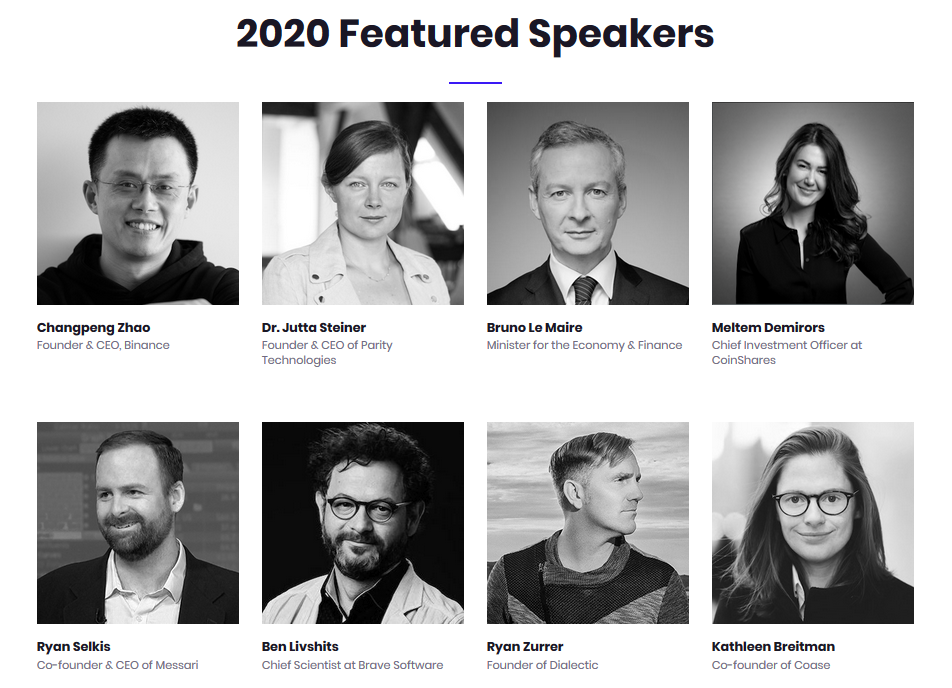
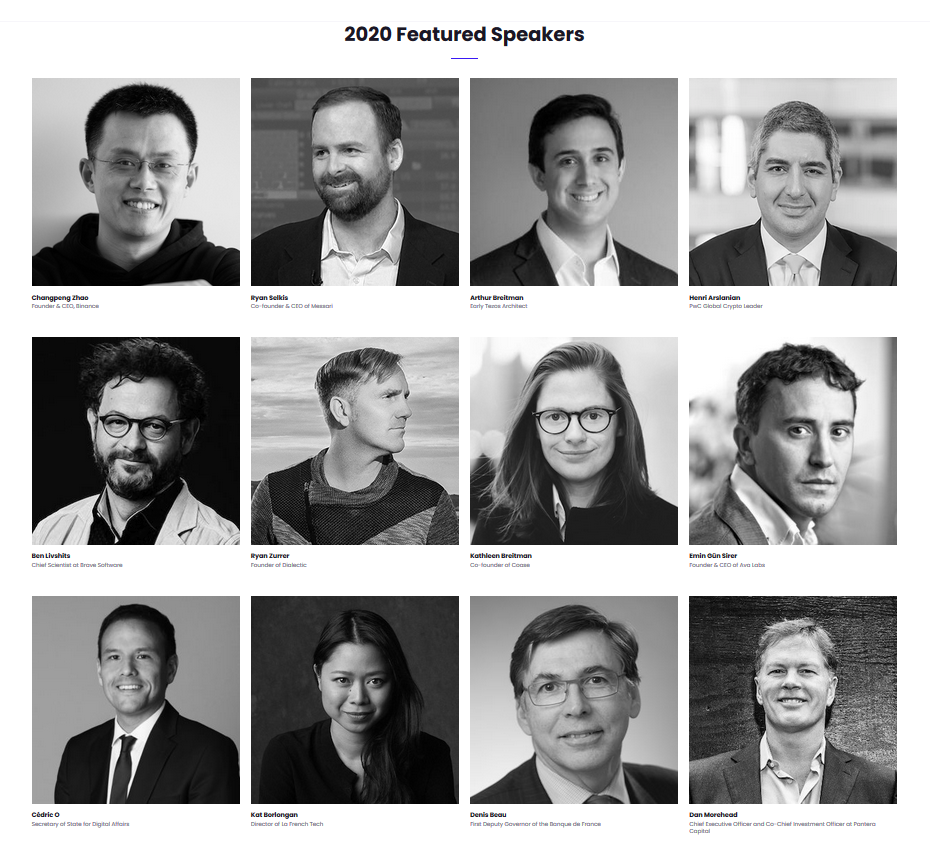
Update article

diff --git a/_posts/2020-12-07-paris-blockchain-week-summit-2020.md b/_posts/2020-12-07-paris-blockchain-week-summit-2020.md
@@ -1,0 +1,32 @@
+---
+layout: post-right-sidebar
+title:  "Paris Blockchain Week Summit: 9 - 10 décembre 2020"
+description: "La deuxième édition de la Paris Blockchain Week Summit (PBWS) aura lieu le 9 et 10 décembre 2020."
+author: steve
+categories: [ evenements ]
+image: assets/images/articles/paris-blockchain-week-summit-2020/PBWS.png
+image_credential: "Paris Blockchain Week Summit 2020"
+featured: true
+---
+
+### Seconde édition
+
+La deuxième édition de la **Paris Blockchain Week Summit** (PBWS), initialement prévu en avril, aura lieu le **9 et 10 décembre 2020**, dans une version 100% online. 
+
+Lancée pour la première fois en avril 2019, PBWS a été la première grande conférence internationale organisée en France dédiée aux professionnels de la blockchain et des actifs digitaux. L'événement est organisé par des entreprises du secteur et soutenu par de nombreux partenaires. PBWS a pour  objectif d’accélérer la croissance de la blockchain et des actifs digitaux en France et à l’étranger.
+
+### De nombreuses personnalités
+
+[Vous pouvez retrouver l'ensemble des intervenants sur le site de la PBWS](https://pbwsummit.com/speakers)
+
+![walking]({{ site.baseurl }}/assets/images/articles/paris-blockchain-week-summit-2020/speakers.png)
+
+### Programmation
+
+Retrouvez la [programmation de l'évenement](https://hopin.com/events/paris-blockchain-week-summit#schedule).
+
+### CryptoMS partenaire officiel
+
+CryptoMS est [partenaire officiel](https://hopin.com/events/paris-blockchain-week-summit) de la PBWS et suivra les différents sujets abordés lors de cet évenement.
+
+Vous pouvez commander votre ticket en suivant ce [lien](https://hopin.com/events/paris-blockchain-week-summit).

diff --git a/_posts/2020-11-24-ethereum-2.0-ce-qu-il-faut-savoir.md b/_posts/2020-11-24-ethereum-2.0-ce-qu-il-faut-savoir.md
@@ -6,7 +6,7 @@ author: steve
 categories: [ technologie ]
 image: assets/images/articles/ethereum-2.0-ce-qu-il-faut-savoir/1.png
 image_credential: ""
-featured: true
+featured: false
 ---
 
 ### Vers plus de sérénité
